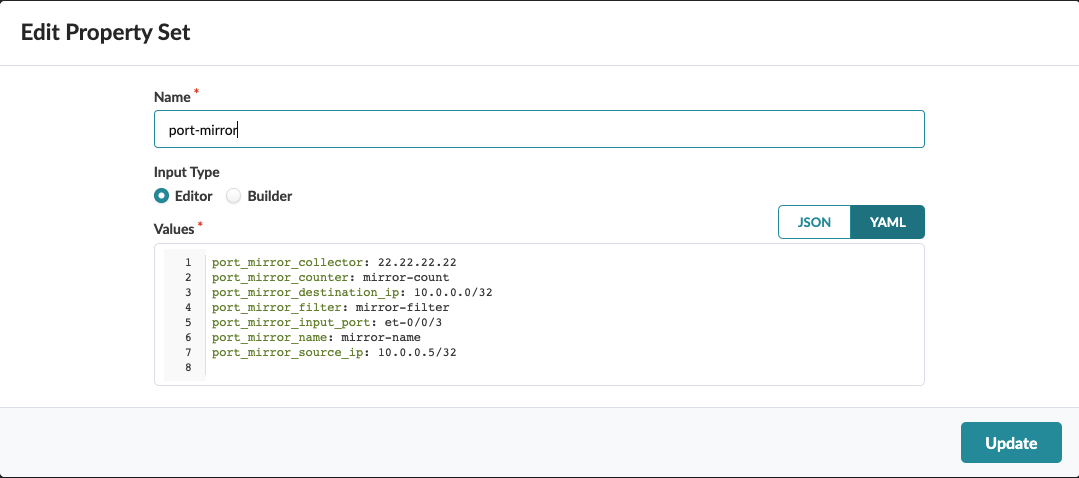
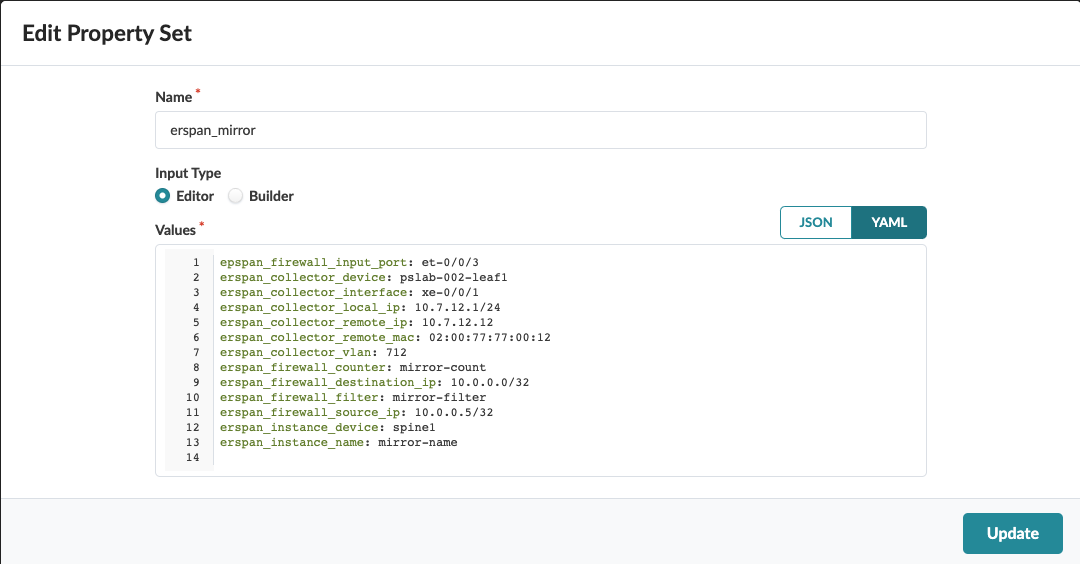
revise port-mirroring with property sets

diff --git a/Juniper/JUNOS/port-mirror/README.md b/Juniper/JUNOS/port-mirror/README.md
@@ -1,14 +1,37 @@
 # port-mirror
-This configlet is to configure port-mirror
+This configlet is to configure ERSPAN mirroring
+
+![Diagram](./images/erspan-diagram.png "ERSPAN diagram")
+
 
 # Create Property Set
-![Configlet](./images/property-set-edit.png "port-mirror Property Set")
+![Property Set](./images/property-set-edit.png "port-mirror Property Set")
+
+```yaml
+epspan_firewall_input_port: et-0/0/3
+erspan_collector_device: pslab-002-leaf1
+erspan_collector_interface: xe-0/0/1
+erspan_collector_local_ip: 10.7.12.1/24
+erspan_collector_remote_ip: 10.7.12.12
+erspan_collector_remote_mac: 02:00:77:77:00:12
+erspan_collector_vlan: 712
+erspan_firewall_counter: mirror-count
+erspan_firewall_destination_ip: 10.0.0.0/32
+erspan_firewall_filter: mirror-filter
+erspan_firewall_source_ip: 10.0.0.5/32
+erspan_instance_device: spine1
+erspan_instance_name: mirror-name
+```
 
 # Create Configlet
-![Configlet](./images/configlet-edit.png "port-mirror Configlet")
+![Configlet](./images/configlet-edit-1.png "port-mirror Configlet")
+![Configlet](./images/configlet-edit-2.png "port-mirror Configlet")
+![Configlet](./images/configlet-edit-3.png "port-mirror Configlet")
+
+[json file](./port-mirror-configlet.json)
 
 # Import Property Set
-TODO:
+![Property Set](./images/import-property-set.png)
 
 # Import Configlet
-TODO:
+![Import Configlet](./images/import-configlet.png)
